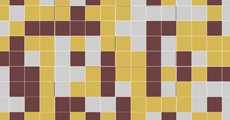
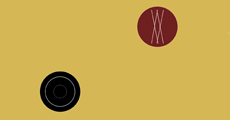
Zooms

diff --git a/example_fence2.js b/example_fence2.js
@@ -8,15 +8,13 @@ var grid_size = 64;
 var tourSeed = 301;
 /* triplets of locations: zoom, x, y */
 var tourPath = [
-//  [1, 356.500000000000, 665.750000000000],
-//  [3, 353.250000000000, 668.187500000000],
-//  [4, 322.562500000000, 645.093750000000],
-//  [5, 322.562500000000, 645.109375000000],
-//  [7, 317.984375000000, 643.636718750000],
-//  [3, 317.984375000000, 643.636718750000]
     [3,328.187500000000,462.375000000000],
     [6,324.117187500000,456.515625000000],
-    [7,322.480468750000,459.195312500000],
+    [7,321.402343750000,463.023437500000],
+
+
+    [8,509.572265625000,511.597656250000]
+    [8,513.916015625000,512.691406250000]
 ]
 
 function getOffsetPoint(p5, x, y, z, noiseScale) {
@@ -35,7 +33,7 @@ function snap_to_grid(num, gsize) {
 
 
 
-function drawDots_red(p5, x1, x2, y1, y2, pos_x, pos_y, rad1, rad2, drawSquares) {
+function drawDots_red(p5, x1, x2, y1, y2, pos_x, pos_y, rad1, rad2, drawLines) {
   var offsets = [
       
       //red grid
@@ -81,56 +79,11 @@ function drawDots_red(p5, x1, x2, y1, y2, pos_x, pos_y, rad1, rad2, drawSquares)
       [4.5,5.5],
       [5.5,5.5],
       
-
-      //black grid
-      [0.5,0.5],
-      [1.6,0.9],
-      [2.1,0.2],
-      [3 ,0.9],
-      [4.1,0.2],
-      [5.1,0.9],
-      
-      [0.9,1.6],
-      [2.3,1.6],
-      [3.7,1.6],
-      [5.2,1.6],
-      
-      [0.2,2.3],
-      [1.6,2.3],
-      [3,2.3],
-      [4.4,2.3],
-      [5.8,2.3],
-      
-      //center
-      
-      [0.7,3],
-      [2.3,3],
-      [3.7,3],
-      [5.3,3],
-      
-      //center
-      
-      [0.2,3.7],
-      [1.7,3.7],
-      [3,3.7],
-      [4.4,3.7],
-      [5.8,3.7],
-      
-      [0.9,4.4],
-      [2.3,4.4],
-      [3.7,4.4],
-      [5.1,4.4],
-      
-      [1.7,5.2],
-      [3,5.2],
-      [4.3,5.2],
-      
-      [0.5,5.5],
-      [2.1,5.8],
-      [3.9,5.8],
-      [5.5,5.5],
       
   ]
+
+
+
   var pixel_posx1 = p5.map(pos_x, x1, x2, 0, 256);
   var pixel_posx2 = p5.map(pos_x+rad2, x1, x2, 0, 256);
   var pixel_radius = pixel_posx2 - pixel_posx1;
@@ -149,22 +102,27 @@ function drawDots_red(p5, x1, x2, y1, y2, pos_x, pos_y, rad1, rad2, drawSquares)
     p5.stroke(255);  
       
     p5.ellipse(pixel_x, pixel_y, pixel_radius/3);
-      
-       if(drawSquares) {
-      //p5.strokeWeight(pixel_radius / 100);
-           
-//      p5.stroke(255);
-//      p5.strokeWeight(1);   
 
-      p5.line(pixel_x, pixel_y-pixel_radius, pixel_x, pixel_y+pixel_radius);
 
-           
-    }   
-  }
+
+       if(drawLines) {
+ 
+    p5.strokeWeight(3);
+        p5.line(pixel_x-50, pixel_y-140, pixel_x+5, pixel_y+140);
+        p5.line(pixel_x+50, pixel_y-140, pixel_x-5, pixel_y+140);
+
+        p5.line(pixel_x, pixel_y-140, pixel_x-50, pixel_y+140);
+        p5.line(pixel_x+50, pixel_y+140, pixel_x-5, pixel_y-140);
+
+		
+  	}
+
+
+      }
 }
 
 
-function drawDots_black(p5, x1, x2, y1, y2, pos_x, pos_y, rad1, rad2, drawSquares) {
+function drawDots_black(p5, x1, x2, y1, y2, pos_x, pos_y, rad1, rad2, drawEllipses,drawEllipses_4,drawEllipses_8,drawEllipses_6) {
   var offsets = [
       
 
@@ -173,7 +131,7 @@ function drawDots_black(p5, x1, x2, y1, y2, pos_x, pos_y, rad1, rad2, drawSquare
       [1.6,0.9],
       [2.1,0.2],
       [3 ,0.9],
-      [4.1,0.2],
+      [3.9,0.2],
       [5.1,0.9],
       
       [0.9,1.6],
@@ -232,24 +190,56 @@ function drawDots_black(p5, x1, x2, y1, y2, pos_x, pos_y, rad1, rad2, drawSquare
     var pixel_y3 = p5.map(pos_y+0.4*rad1*offset[1], y1, y2, 0, 256); 
    
       
+   
     p5.strokeWeight(1);
     p5.stroke(255);  
       
     p5.ellipse(pixel_x, pixel_y, pixel_radius/3);
-      p5.ellipse(pixel_x, pixel_y, pixel_radius/5);
-      
-    if(drawSquares) {
+
+
+    if(drawEllipses) {
       //p5.strokeWeight(pixel_radius / 100);
       p5.noFill();
       p5.stroke(255);
       p5.strokeWeight(1);    
-      p5.ellipse(pixel_x, pixel_y, 5);
-      p5.ellipse(pixel_x2, pixel_y2, 5);
-      p5.ellipse(pixel_x3, pixel_y3, 5);
+      p5.ellipse(pixel_x, pixel_y,110);
+      p5.strokeWeight(1);
+      p5.ellipse(pixel_x2, pixel_y2, 10);
+      p5.ellipse(pixel_x3, pixel_y3, 10);
+   
+        p5.fill(0);
+    } 
+
+     if(drawEllipses_6) {
+      //p5.strokeWeight(pixel_radius / 100);
+      p5.noFill();
+      p5.stroke(255);
+      p5.strokeWeight(1);    
+      p5.ellipse(pixel_x, pixel_y,50);
+      p5.strokeWeight(1);
+      p5.ellipse(pixel_x2, pixel_y2, 10);
+      p5.ellipse(pixel_x3, pixel_y3, 10);
    
         p5.fill(0);
     }  
+
+     if(drawEllipses_8) {
+      //p5.strokeWeight(pixel_radius / 100);
+      p5.noFill();
+      p5.stroke(255);
+      p5.strokeWeight(3);    
+      p5.ellipse(pixel_x, pixel_y,250);
+       p5.fill(0);
+    }  
       
+     if(drawEllipses_4) {
+      //p5.strokeWeight(pixel_radius / 100);
+      p5.noFill();
+      p5.stroke(255);
+      p5.strokeWeight(1);    
+      p5.ellipse(pixel_x, pixel_y,10);
+       p5.fill(0);
+    }   
 
       
   }
@@ -283,6 +273,15 @@ function drawGrid(p5, x1, x2, y1, y2, z, zoom) {
   var cur_line_width = c_plwidth - c_p00;
   var cur_ball_radius = c_pball - c_p00;
 
+       var drawEllipses = false;
+       var drawEllipses_4 = false;
+       var drawEllipses_6 = false;
+       var drawEllipses_8 = false;
+        var drawLines = false;
+        var drawDetail = false;
+
+
+  	//grid
   p5.background(255);
   for(var x=min_x; x<max_x; x+=grid_size) {
     for(var y=min_y; y<max_y; y+=grid_size) {
@@ -291,42 +290,99 @@ function drawGrid(p5, x1, x2, y1, y2, z, zoom) {
       var y_pos = p5.map(shift_point[1], y1, y2, 0, 256);
 
       p5.strokeWeight(cur_line_width);
-      
-    
-        //array of grid colors
-       var square_colors = ['#d6b755', '#6d4141','#cecece'];
-       var square = p5.random(square_colors);  // select random color
           
-        p5.fill(square);
+        p5.fill(214, 183, 85);
         p5.stroke(255);   
         p5.strokeWeight(1);  
       p5.rect(x_pos, y_pos, cur_ball_radius,cur_ball_radius); 
-  
 
-
-
-      if(zoom >= 3) {
-        var drawSquares = false;
-          p5.fill(61);
-      // Detail in circle pattern
-          if (zoom >= 4) drawSquares = true;
-        if (zoom >= 5) drawSquares = true;
-
-        p5.fill(110,31,31);
+  		//subtle circle pattern
+      if(zoom == 2 || zoom == 3) {
+      	p5.push();
+      	p5.scale(0.4);
+      	drawDots_red(p5, x1, x2, y1, y2, shift_point[0], shift_point[1], ball_radius/3, line_width/2, drawLines);
         p5.strokeWeight(3);
+          
+        p5.fill(0);
+        drawDots_black(p5, x1, x2, y1, y2, shift_point[0], shift_point[1], ball_radius/3, line_width/2, drawEllipses,drawEllipses_4,drawEllipses_8,drawEllipses_6);
+        p5.pop();
+      }
+
+
+      //circle pattern
+
+      if(zoom == 4 || zoom == 5) {
+   
+          p5.fill(61);
+
+           p5.fill(110,31,31);
+        p5.strokeWeight(4);
         p5.stroke(255);  
           
-        drawDots_red(p5, x1, x2, y1, y2, shift_point[0], shift_point[1], ball_radius/3, line_width/2, drawSquares);
-        p5.strokeWeight(3);
+        drawDots_red(p5, x1, x2, y1, y2, shift_point[0], shift_point[1], ball_radius/3, line_width/2, drawLines);
+        p5.strokeWeight(4);
           
            p5.fill(0);
-          drawDots_black(p5, x1, x2, y1, y2, shift_point[0], shift_point[1], ball_radius/3, line_width/2, drawSquares);
-          
-          if(zoom >=7){
-              
-             
-          }
+          drawDots_black(p5, x1, x2, y1, y2, shift_point[0], shift_point[1], ball_radius/3, line_width/2, drawEllipses, drawEllipses_4,drawEllipses_8,drawEllipses_6);
+ 		drawEllipses = false;
+    	drawLines = false;
+    	drawDetail = false;
+    	drawEllipses_8 = false;
+    	drawEllipses_4 = true;
+    	
+       
       }
+      // Circle pattern + White Circles
+          if (zoom == 6 || zoom == 7)   {
+           p5.fill(110,31,31);
+        p5.strokeWeight(5);
+        p5.stroke(255);  
+          
+        drawDots_red(p5, x1, x2, y1, y2, shift_point[0], shift_point[1], ball_radius/3, line_width/2, drawLines);
+        p5.strokeWeight(5);
+          
+           p5.fill(0);
+          drawDots_black(p5, x1, x2, y1, y2, shift_point[0], shift_point[1], ball_radius/3, line_width/2, drawEllipses,drawEllipses_4,drawEllipses_8,drawEllipses_6);
+
+          p5.strokeWeight(5);
+          p5.stroke(255);  
+
+             
+        drawEllipses = false;
+    	drawLines = false;
+    	drawDetail = false;
+    	drawEllipses_8 = false;
+    	drawEllipses_6 = true;
+    	drawEllipses_4 = false;
+    	}
+
+
+    	//Circle pattern + Lines + White Circles
+
+        if (zoom == 8 || zoom == 9) {
+        	 p5.fill(110,31,31);
+        p5.strokeWeight(6);
+        p5.stroke(255);  
+          
+   
+    p5.strokeWeight(5);
+        drawDots_red(p5, x1, x2, y1, y2, shift_point[0], shift_point[1], ball_radius/3, line_width/2, drawLines);
+        p5.strokeWeight(6);
+          
+           p5.fill(0);
+          drawDots_black(p5, x1, x2, y1, y2, shift_point[0], shift_point[1], ball_radius/3, line_width/2, drawEllipses,drawEllipses_4,drawEllipses_8,drawEllipses_6);
+          
+
+
+        drawEllipses = true;
+        drawEllipses_8 = true;
+        drawEllipses_4 = false;
+   		drawLines = true;
+   		drawDetail = true;
+   	}
+
+       
+      
         
 
 

diff --git a/README.md b/README.md
@@ -1,5 +1,11 @@
 ## Powers of 10 PRINT
 
-I have figured out how to put random fill for each square. But it randomizes everytime you zoom which isn't really what I want. Therefore I might just change my design to something else. Also the grid colors aren't really exactly in line. 
+I have got my layers and zoom levels sorted:
 
-More detail has also been added into the third zoom layer/zone.
+0,1 Grid
+2,3 Small dots appear
+4,5 Bigger dots
+6,7 Small white dots appear in background
+8,9 Detail in red and black dots appear
+
+I've noticed that it takes ages to load the page everytime it zooms in. Not sure if it's just mine or it's just what it is.
